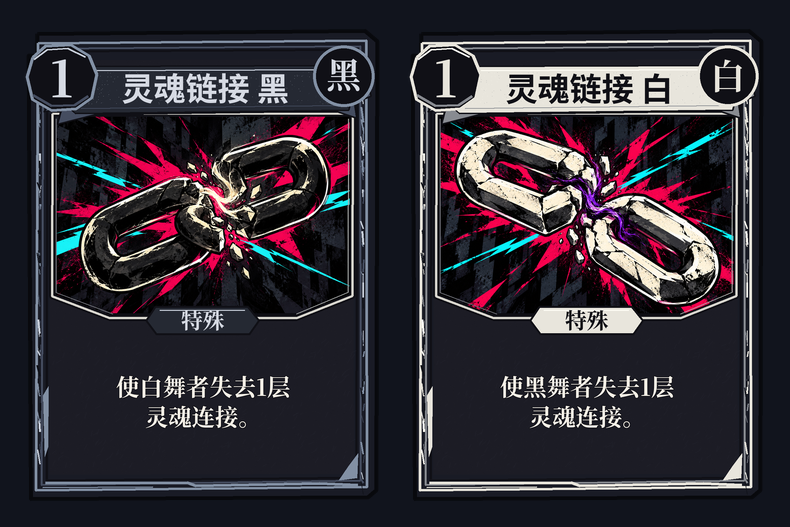
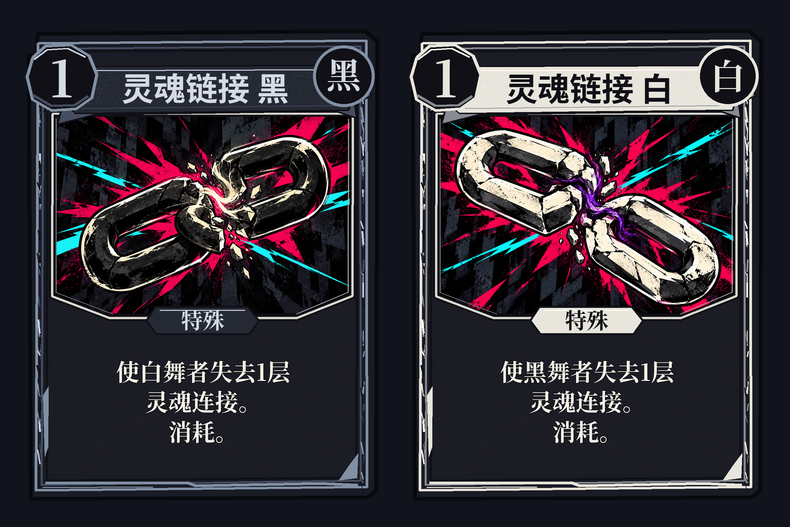
boss修改

Changed region(s): [[0.638, 0.6679, 0.8506, 0.8501], [0.1519, 0.6679, 0.3646, 0.8501]]

diff --git a/tools/card_art/render_dancer_special.py b/tools/card_art/render_dancer_special.py
@@ -103,11 +103,11 @@ def render(card, color):
     d.line([(413,864),(668,864)],fill=light,width=3)
     write(d,(542,891),'特殊',65,palette['ink'])
     # Keep source rules verbatim, with the same font/area as all forty cards.
-    rules=card['cardText']; lines=[rules[:8],rules[8:]]
-    assert ''.join(lines)==rules and '\\n' not in rules and all(lines)
+    rules=card['cardText']; lines=[paragraph[i:i+8] for paragraph in rules.split('\n') for i in range(0,len(paragraph),8)]
+    assert ''.join(lines)==rules.replace('\n','') and '\\n' not in rules and all(lines)
     boxes=[]
     for index,line in enumerate(lines):
-        y=1136+(index-.5)*90
+        y=1136+(index-(len(lines)-1)/2)*90
         write(d,(544,y),line,70,'#f5f0e7',2)
         box=list(d.textbbox((544,y),line,font=font(70),anchor='mm',stroke_width=2))
         assert 118<=box[0]<box[2]<=971 and 956<=box[1]<box[3]<=1325,box
@@ -128,7 +128,7 @@ def main():
         'font':'res://assets/fonts/NotoSerifCJKsc-Bold.otf',
         'cards':{r['definition']['id']:{'path':'res://'+r['path'],'definition':r['definition']} for r in records}}
     (ROOT/'data/cards/card_faces_special.json').write_text(json.dumps(config,ensure_ascii=False,indent=2)+'\n')
-    manifest={'templateId':TEMPLATE,'parentTemplate':'neon-comic-title-v3','date':'2026-10-25',
+    manifest={'templateId':TEMPLATE,'parentTemplate':'neon-comic-title-v3','date':'2026-10-26',
         'rendererSha256':sha(__file__),'sourceDefinitionSha256':sha(DATA),'fonts':{str(p.relative_to(ROOT)):sha(p) for p in [FONT,TITLE_FONT]},
         'software':{'pillow':PIL_VERSION},'cards':records}
     (OUTPUT/'manifest.json').write_text(json.dumps(manifest,ensure_ascii=False,indent=2)+'\n')

diff --git a/docs/开发接入说明.md b/docs/开发接入说明.md
@@ -23,9 +23,11 @@ E16／B16已接入蜂巢城寨（`hive`），只在第7天刷新。Boss出现后
 
 一阶段只有黑舞者，80 HP；击倒后瞬间熄屏，停留1秒后直接亮起三道聚光灯，主灯瞬亮。开灯同帧出现一次短促暖白屏闪、加亮灯芯和脚底外扩光环，额外光强在0.65秒内收稳，随后继续操作。稳定灯束每层透明度0.028、光斑0.040；开灯峰值分别为0.058／0.068、灯束宽度增加22%，并叠加暖白灯芯与外扩椭圆光环。二阶段诺伦居中，黑舞者在右、白舞者在左，均与主角脚底水平对齐，各距中央主角420像素，各80 HP，环境持续压暗。两人均击倒才胜利。主菜单「战斗演练 → 双人舞者 · Boss」可随时进入，两阶段血量与正式战斗一致，不改冒险进度。
 
-一阶段黑舞者80 HP，按「攻击15 → 攻击10并施加2层虚弱」循环。二阶段黑、白舞者各80 HP；黑舞者按「攻击10 → 攻击8 → 施加3层易伤」循环，白舞者按「施加2层虚弱 → 攻击4×3 → 给存活的黑舞者恢复10 HP」循环，治疗不超过最大生命、不复活。攻击数值为基础值，实际伤害受力量、虚弱与易伤影响。
+一阶段黑舞者80 HP，按「攻击15 → 攻击10并施加2层虚弱」循环。二阶段黑、白舞者各80 HP；黑舞者按「攻击10 → 攻击8 → 强化：给存活白舞者增加2点力量」循环，白舞者按「施加2层虚弱 → 攻击3×3 → 给存活的黑舞者恢复10 HP」循环，治疗不超过最大生命、不复活。第三步强化独立于灵魂连接，仅对白舞者存活时生效；力量本场累加，每层使每段基础伤害+1，因此强化一次后白舞者下一次攻击为5×3。攻击数值为基础值，实际伤害受力量、虚弱与易伤影响。
 
-二阶段双方初始各2层灵魂连接。每个敌方回合开始时（双方行动前，先清除双方上轮格挡），存活黑舞者有连接则给存活白舞者10格挡，存活白舞者有连接则给存活黑舞者2力量；有1或2层时效果相同，0层停止；任意一方死亡后双方连接均不再触发，存活者的连接层数不自动清零，已获得的力量不移除。二阶段开启的新玩家回合不触发连接；新获得的10格挡保留经过下一玩家回合，到下次敌方回合开始再清除。进入二阶段时向抽牌堆随机位置各加入一张黑卡／白卡，然后正常抽新手牌；均1费，黑卡移除白舞者1层连接，白卡移除黑舞者1层连接，打出后进入弃牌堆，可循环使用。只用于本场战斗，不进入拥有牌、商店或奖励。玩家虚弱使攻击伤害降低25%，逐段四舍五入，自身回合末减1层；一阶段攻击附带虚弱即使全被格挡也施加，整次攻击只施加一次。
+二阶段双方初始各1层灵魂连接。每个敌方回合开始时（双方行动前，先清除双方上轮格挡），存活黑舞者有连接则给存活白舞者10格挡，存活白舞者有连接则给存活黑舞者2力量；连接存在时效果固定，0层停止；任意一方死亡后双方连接均不再触发，存活者的连接层数不自动清零，已获得的力量不移除。二阶段开启的新玩家回合不触发连接；新获得的10格挡保留经过下一玩家回合，到下次敌方回合开始再清除。进入二阶段时向抽牌堆随机位置各加入一张黑卡／白卡，然后正常抽新手牌；均1费，黑卡移除白舞者1层连接，白卡移除黑舞者1层连接，打出后消耗，进入本场消耗区，不再循环抽回。只用于本场战斗，不进入拥有牌、商店或奖励。玩家虚弱使攻击伤害降低25%，逐段四舍五入，自身回合末减1层；一阶段攻击附带虚弱即使全被格挡也施加，整次攻击只施加一次。
+
+黑舞者第三步复用`strength_allies`，`amount=2`、`targetIds=["dancer_white"]`，只给存活白舞者累加力量，输出与灵魂连接分开的`status_apply`事件；舞者冻结意图校验允许该类型并检查目标数组非空、ID有效。该技能不依赖连接层数，强化提示明确显示白舞者；旧冻结`vulnerable`意图仍可读取。
 
 舞者命中特效由`test_stage.gd.show_strike()`按攻击者及动作分派：`dancer_black + pierce`、`dancer_white + slash`共用`dancer_strike_fx.gd`。当前复用诺伦突刺／斩击原纹理，通过独立`dancer_strike_palette.gdshader`转为黑色突刺与白色斩击，保留原图拖尾／月牙／命中爆点层次及透明度。黑突刺绘制480×132、白斩340×170逻辑像素，均大于诺伦对应420×104、270×135的基准；尺寸还随目标纵深与攻击方表现配置缩放。斩击主月牙与命中爆点采用诺伦相同分层锚点，方向整体镜像，动画围绕命中点增长并在后半消退；格挡时略收缩、减弱，0.36秒后自动释放。普通alpha混合保留黑色主体，亮度后调增强灰白枪线及白色月牙／爆点，未更改原透明度，不改诺伦纹理或红色效果；模型、命中时机和其他攻击分派沿用原实现。
 

diff --git a/docs/修改记录.md b/docs/修改记录.md
@@ -1,5 +1,26 @@
 # 午夜委托项目修改记录
 
+## 2026-10-26 game-demo 灵魂连接初始1层与黑白卡消耗
+
+- 二阶段双方初始灵魂连接各2→1层。“灵魂链接 黑／白”仍各1费、移除对方1层连接，新增`exhaust:true`及“消耗。”文案；使用一次即移除对应唯一链接并进入本场消耗区，不再弃牌回收。消耗模型、预览和动画复用既有机制，角色血量、最新意图和独立强化技能保持。
+- 旧进行中战斗保留冻结2层、旧卡定义及非消耗弃牌行为；为旧档保留Buff历史兼容上限2，新战斗目录初始仅1。回归覆盖一次移除、停止未来交叉增益／保留历史力量、消耗区实例守恒、重复出牌拒绝、恢复及下回合不抽回、旧冻结卡继续弃牌。
+- 两张特殊卡由既有确定性渲染器重排规则区，加入独立“消耗。”行，同步严格定义映射、依赖清单、预览与验收哈希。逐像素差异仅位于规则文字范围`[281,1013,806,1265]`，插画源哈希、规则区外所有像素保持；已查看两张1086×1448原尺寸及173宽双卡预览，无文字溢出，362宽预览已生成但本轮未单独目视。用户认可仍pending。
+- 独立复制工程、独立用户目录、Godot4.7.2 headless+Dummy导入：机制142、Boss规则232、Boss表现136、特殊卡真实卡面49、卡牌预览2333、消耗表现76、战斗重开152，共7套3120项0失败。最终日志无脚本错误／资源告警，改动实现与被测副本字节一致，`git diff --check`通过。
+- 首轮新特殊卡测试缩进和“特殊 · 消耗”标签断言已修正；新增守恒断言的夹具能量从临时20改为真实3。既有消耗特效专项仍期待拆卸弹药后4颗，而当前初始2+卡牌3为5，仅校正断言，未改该卡实现。失败日志保留，修正后只复测受影响套件。
+- 未打开窗口、移动系统鼠标或使用正式存档，未做Godot GPU像素／物理输入／完整游玩验收。保留本任务之前的未提交改动，未提交／推送。
+
+证据：[验证汇总](../artifacts/qa/dancer-one-link-2026-10-26/verification.json)、[卡面差异](../artifacts/qa/dancer-one-link-2026-10-26/card-face-checks.json)。
+
+## 2026-10-26 game-demo 双舞者强化循环与白舞者三连击
+
+- 二阶段黑舞者按「攻击10 → 攻击8 → 给存活白舞者增加2力量」循环；白舞者按「虚弱2 → 攻击3×3 → 给存活黑舞者恢复10 HP」循环。双方80 HP、一阶段及灵魂连接保持；强化是独立技能，不因链接归零停止，但跳过倒下的白舞者。获得的力量本场累加，强化一次后的白舞者三连击为5×3，治疗仍封顶且不复活。
+- 复用`strength_allies`、定向`targetIds:[dancer_white]`及有序`status_apply`；舞者快照校验允许该意图并校验非空合法目标，原攻击／易伤／治疗快照继续兼容。强化提示明确写出白舞者与+2，复用既有强化图标，战斗日志按正确目标显示，不将舞者称为小弟。
+- 更新机制、真实Boss场景和意图提示回归：两轮循环／叠加力量、多段实伤、链接归零后强化仍生效、目标死亡跳过、目标校验、强化后快照、第三轮强化与治疗无玩家扣血／无易伤、画面力量2层与格挡10同步。配套Boss规则、通用敌方演出、控制台与战斗重开，共7套831项0失败；最终日志无脚本错误／资源告警，被测实现与仓库字节一致，`git diff --check`通过。
+- 控制台专项首轮仅旧血量断言失败：仍期待二阶段90 HP，而改动前目录已为80。按当前80 HP修正断言后72项通过，首轮日志保留，未修改控制台结算实现。
+- 使用独立复制工程与独立用户目录，Godot4.7.2 headless+Dummy；未打开窗口、移动系统鼠标或使用正式存档，未做GPU像素／物理输入／完整游玩验收。旧进行中战斗保留冻结定义，新开正式战斗／演练使用新循环。未提交／推送。
+
+证据：[验证汇总](../artifacts/qa/dancer-reinforcement-2026-10-26/verification.json)。
+
 ## 2026-10-26 game-demo 黑舞者二阶段意图调整
 
 - 黑舞者二阶段改按「基础攻击10 → 基础攻击8 → 施加3层易伤」循环。仅修改该敌人的意图序列，双方80 HP、白舞者循环、一阶段及灵魂连接保持当前配置。正式与演练共用目录；旧进行中快照保留冻结意图，新开战斗／演练使用新序列。

diff --git a/docs/游戏规则.md b/docs/游戏规则.md
@@ -31,7 +31,7 @@
 
 当前完整40牌说明见[诺伦卡牌与控制台](诺伦卡牌与控制台.md#2026-10-25-非基础牌增强与剖解经验重做)。本节覆盖下方旧日期卡牌数值；旧日期记录仅表示对应阶段。
 
-2026-10-25特殊卡：二阶段黑／白专用卡现分别命名「灵魂链接 黑」「灵魂链接 白」，卡种类为特殊（special），均1费、无稀有度。仍移除相反舞者1层灵魂连接，正常弃牌循环，不进入永久拥有牌、黑市或奖励；旧进行中快照保留原卡名及技能类型。
+2026-10-25特殊卡：二阶段黑／白专用卡现分别命名「灵魂链接 黑」「灵魂链接 白」，卡种类为特殊（special），均1费、无稀有度。仍移除相反舞者1层灵魂连接，打出后消耗，不进入永久拥有牌、黑市或奖励；旧进行中快照保留原卡名及技能类型。
 
 ## 2026-10-25 信标水母
 
@@ -43,9 +43,9 @@
 
 ## 2026-10-25 game-demo 双人舞者正式意图
 
-一阶段黑舞者80 HP，按「攻击15 → 攻击10并施加2层虚弱」循环。二阶段黑、白舞者各80 HP；黑舞者按「攻击10 → 攻击8 → 施加3层易伤」循环，白舞者按「施加2层虚弱 → 攻击4×3 → 给存活的黑舞者恢复10 HP」循环，治疗不超过最大生命、不复活。攻击数值为基础值，实际伤害受力量、虚弱与易伤影响。
+一阶段黑舞者80 HP，按「攻击15 → 攻击10并施加2层虚弱」循环。二阶段黑、白舞者各80 HP；黑舞者按「攻击10 → 攻击8 → 强化：给存活白舞者增加2点力量」循环，白舞者按「施加2层虚弱 → 攻击3×3 → 给存活的黑舞者恢复10 HP」循环，治疗不超过最大生命、不复活。第三步强化独立于灵魂连接，仅对白舞者存活时生效；力量本场累加，每层使每段基础伤害+1，因此强化一次后白舞者下一次攻击为5×3。攻击数值为基础值，实际伤害受力量、虚弱与易伤影响。
 
-二阶段双方初始各2层灵魂连接。每个敌方回合开始时（双方行动前，先清除双方上轮格挡），存活黑舞者有连接则给存活白舞者10格挡，存活白舞者有连接则给存活黑舞者2力量；有1或2层时效果相同，0层停止；任意一方死亡后双方连接均不再触发，存活者的连接层数不自动清零，已获得的力量不移除。二阶段开启的新玩家回合不触发连接；新获得的10格挡保留经过下一玩家回合，到下次敌方回合开始再清除。进入二阶段时向抽牌堆随机位置各加入一张黑卡／白卡，然后正常抽新手牌；均1费，黑卡移除白舞者1层连接，白卡移除黑舞者1层连接，打出后进入弃牌堆，可循环使用。只用于本场战斗，不进入拥有牌、商店或奖励。玩家虚弱使攻击伤害降低25%，逐段四舍五入，自身回合末减1层；一阶段攻击附带虚弱即使全被格挡也施加，整次攻击只施加一次。
+二阶段双方初始各1层灵魂连接。每个敌方回合开始时（双方行动前，先清除双方上轮格挡），存活黑舞者有连接则给存活白舞者10格挡，存活白舞者有连接则给存活黑舞者2力量；连接存在时效果固定，0层停止；任意一方死亡后双方连接均不再触发，存活者的连接层数不自动清零，已获得的力量不移除。二阶段开启的新玩家回合不触发连接；新获得的10格挡保留经过下一玩家回合，到下次敌方回合开始再清除。进入二阶段时向抽牌堆随机位置各加入一张黑卡／白卡，然后正常抽新手牌；均1费，黑卡移除白舞者1层连接，白卡移除黑舞者1层连接，打出后消耗，进入本场消耗区，不再循环抽回。只用于本场战斗，不进入拥有牌、商店或奖励。玩家虚弱使攻击伤害降低25%，逐段四舍五入，自身回合末减1层；一阶段攻击附带虚弱即使全被格挡也施加，整次攻击只施加一次。
 
 ## 沃斯商场科技交易
 

diff --git a/art_sources/dancer_special_v1/README.md b/art_sources/dancer_special_v1/README.md
@@ -1,6 +1,6 @@
 # 灵魂链接特殊卡面 v1
 
-已接入 game-demo 的两张局内专用卡：`灵魂链接 黑`、`灵魂链接 白`，均为1费，实际类型为`special`（特殊），无C/B/A/S稀有度。右上圆章中的“黑／白”仅标识变体，规则仍为移除对方舞者1层灵魂连接，正常弃牌循环。
+已接入 game-demo 的两张局内专用卡：`灵魂链接 黑`、`灵魂链接 白`，均为1费，实际类型为`special`（特殊），无C/B/A/S稀有度。右上圆章中的“黑／白”仅标识变体，规则仍为移除对方舞者1层灵魂连接，打出后消耗，移出本场抽弃牌循环。
 
 使用原40张无人物卡面的1086×1448几何、费用位置、96号原生粗黑标题字、宋体规则字和斜切插画窗口。子模板`neon-comic-special-v1`为黑／白采用石墨／象牙白配色，类型牌标“特殊”。
 
@@ -9,7 +9,7 @@
 - 生成：内置`image_gen`只生成无字插画；完整提示词、参考文件及哈希见[prompts.json](prompts.json)。黑卡引用原`noren_24`画风；白卡同时引用原样板与黑卡插画匹配成对构图，未用新图替代原样板。
 - 排版：[确定性渲染器](../../tools/card_art/render_dancer_special.py)从当前专用卡JSON排入所有文字及卡框。插画保留原始字节，合成时只按固定窗口等比缩放、裁切。
 - 字体：标题Noto Sans CJK SC Bold原文件及许可／来源在`fonts/`；规则使用工程原Noto Serif CJK SC Bold。字体不依赖操作系统安装。
-- [成品及依赖清单](../../assets/cards/dancer_special_v1/manifest.json)、[本版目视记录](acceptance.json)。两张原尺寸、362及173宽预览已检查；没有文字溢出、主体／类型关键内容遮挡，卡面边缘透明、内部不透明。
+- [成品及依赖清单](../../assets/cards/dancer_special_v1/manifest.json)、[本版目视记录](acceptance.json)。当前修订的两张原尺寸及173宽预览已检查，362宽预览已生成；没有文字溢出、主体／类型关键内容遮挡，卡面边缘透明、内部不透明。
 - 用户最终认可仍为pending；已按本次制作任务接入，不把程序加载或制作者目视检查等同于用户认可。
 
 重建（仓库根目录，需Python与Pillow）：

diff --git a/docs/README.md b/docs/README.md
@@ -1,5 +1,9 @@
 # 午夜委托文档索引
 
+2026-10-26 game-demo灵魂连接：二阶段双方初始各1层，灵魂链接 黑／白改为消耗卡，1费移除对方唯一连接后进入消耗区。两张卡面同步显示“消耗”，旧冻结战斗保持原规则，7套3120项隔离无窗口检查通过，见[规则](游戏规则.md)、[修改记录](修改记录.md)与[验证](../artifacts/qa/dancer-one-link-2026-10-26/verification.json)。
+
+2026-10-26 game-demo双舞者循环：黑舞者攻击10→攻击8→强化存活白舞者2力量；白舞者虚弱2→攻击3×3→治疗存活黑舞者10。强化独立于灵魂连接且本场累加，目标倒下则跳过。快照校验、指名白舞者的强化提示及回归同步，7套831项隔离无窗口检查通过，见[规则](游戏规则.md)、[修改记录](修改记录.md)及[验证](../artifacts/qa/dancer-reinforcement-2026-10-26/verification.json)。
+
 2026-10-26 game-demo黑舞者二阶段：循环改为「攻击10 → 攻击8 → 易伤3层」，第二轮双方攻击，第三轮易伤与治疗；其余现有Boss配置保持。3套497项隔离无窗口检查通过，见[规则](游戏规则.md)、[修改记录](修改记录.md)及[本轮验证](../artifacts/qa/dancer-intent-2026-10-26/verification.json)。
 
 2026-10-26 game-demo审计修复：战斗选择弹窗支持键盘确认／导航，回弹预览复用真实受击钩子，商场商品说明与状态行分离；E01R酒馆回礼显式常驻，达标未领取时豁免Boss清场，旧第7天档补回入口，第一周终局仍阻断探索。规则、流程及接口已同步，验证见[修改记录](修改记录.md)。

diff --git a/docs/维护文档.md b/docs/维护文档.md
@@ -1,5 +1,7 @@
 # 午夜委托项目维护文档
 
+2026-10-26灵魂连接及专用卡：新B16二阶段双方初始1层，黑／白卡以`exhaust:true`进入消耗区；旧冻结定义与2层Buff历史兼容保留，不迁移正式存档。新卡面映射绑定含消耗字段与文案的完整定义，旧定义不匹配时按原文字回退。详见[规则](游戏规则.md)、[卡面制作包](../art_sources/dancer_special_v1/README.md)与[本轮验证](../artifacts/qa/dancer-one-link-2026-10-26/verification.json)。
+
 ## 2026-10-25 战斗回合栏与资源拒绝反馈
 
 `battle.gd`创建`turn_hud.gd`常驻顶部，回合编号与行动阶段分区显示。`set_state(turn, phase)`接受`player/enemy/reveal/save`，切换时短暂亮起，重复刷新相同状态不重播；大回合数缩小字号。玩家与敌方回合均仅显示标题，在右侧行动方区域水平、垂直居中；揭幕与等待保存保留副标题，两行水平居中。保留`turn_label`为编号Label别名，阶段文字由`turn_hud.phase_label`提供；中场电子屏回合动画及输入锁时序保留。
